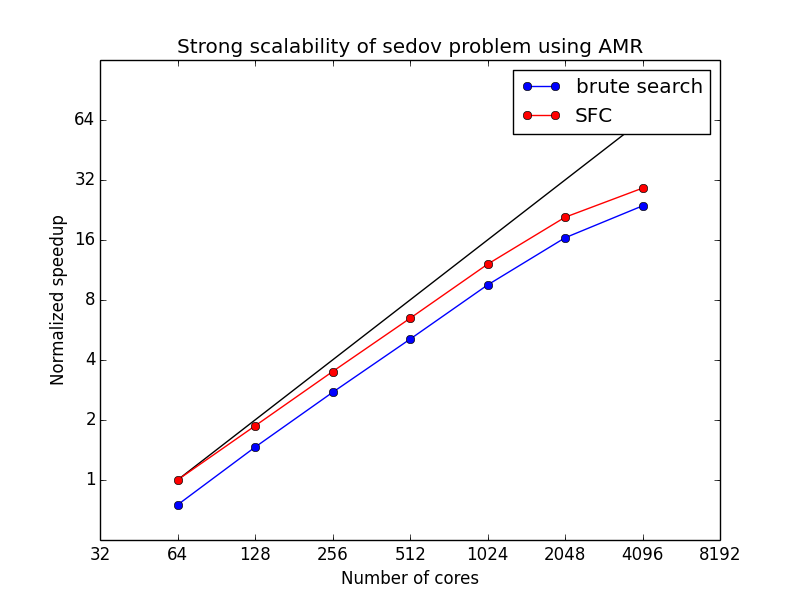
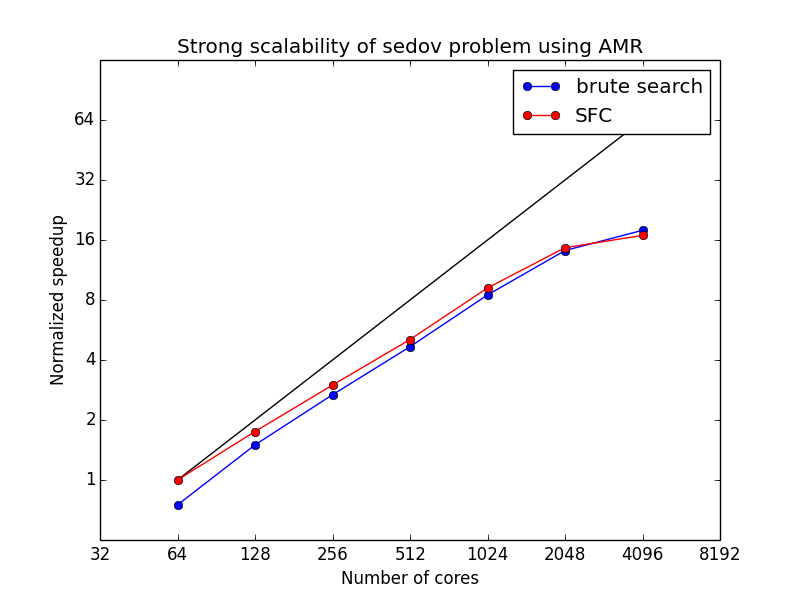
update fig2

Changed region(s): [[0.2188, 0.3, 0.8125, 0.84]]

diff --git a/fig_sfc.py b/fig_sfc.py
@@ -19,8 +19,8 @@ for fname, color, label in inp:
     #        / (data[:, 1] / data[0, 1])
     #  data2 = 1.0 - np.array([2 ** -i for i in np.arange(7)]) \
     #        / (data[:, 2] / data[0, 2])
-    plt.loglog(data[:, 0], pp * (data1[0] * 3 + data2[0]) /
-               (data1 * 3 + data2), 'o-', basex=2, basey=2, label=label,
+    plt.loglog(data[:, 0], pp * (data1[0] * 0 + data2[0]) /
+               (data1 * 0 + data2), 'o-', basex=2, basey=2, label=label,
                color=color)
 plt.xlim((2 ** 5, 2 ** 13))
 plt.ylim((2 ** -1, 2 ** 7))
